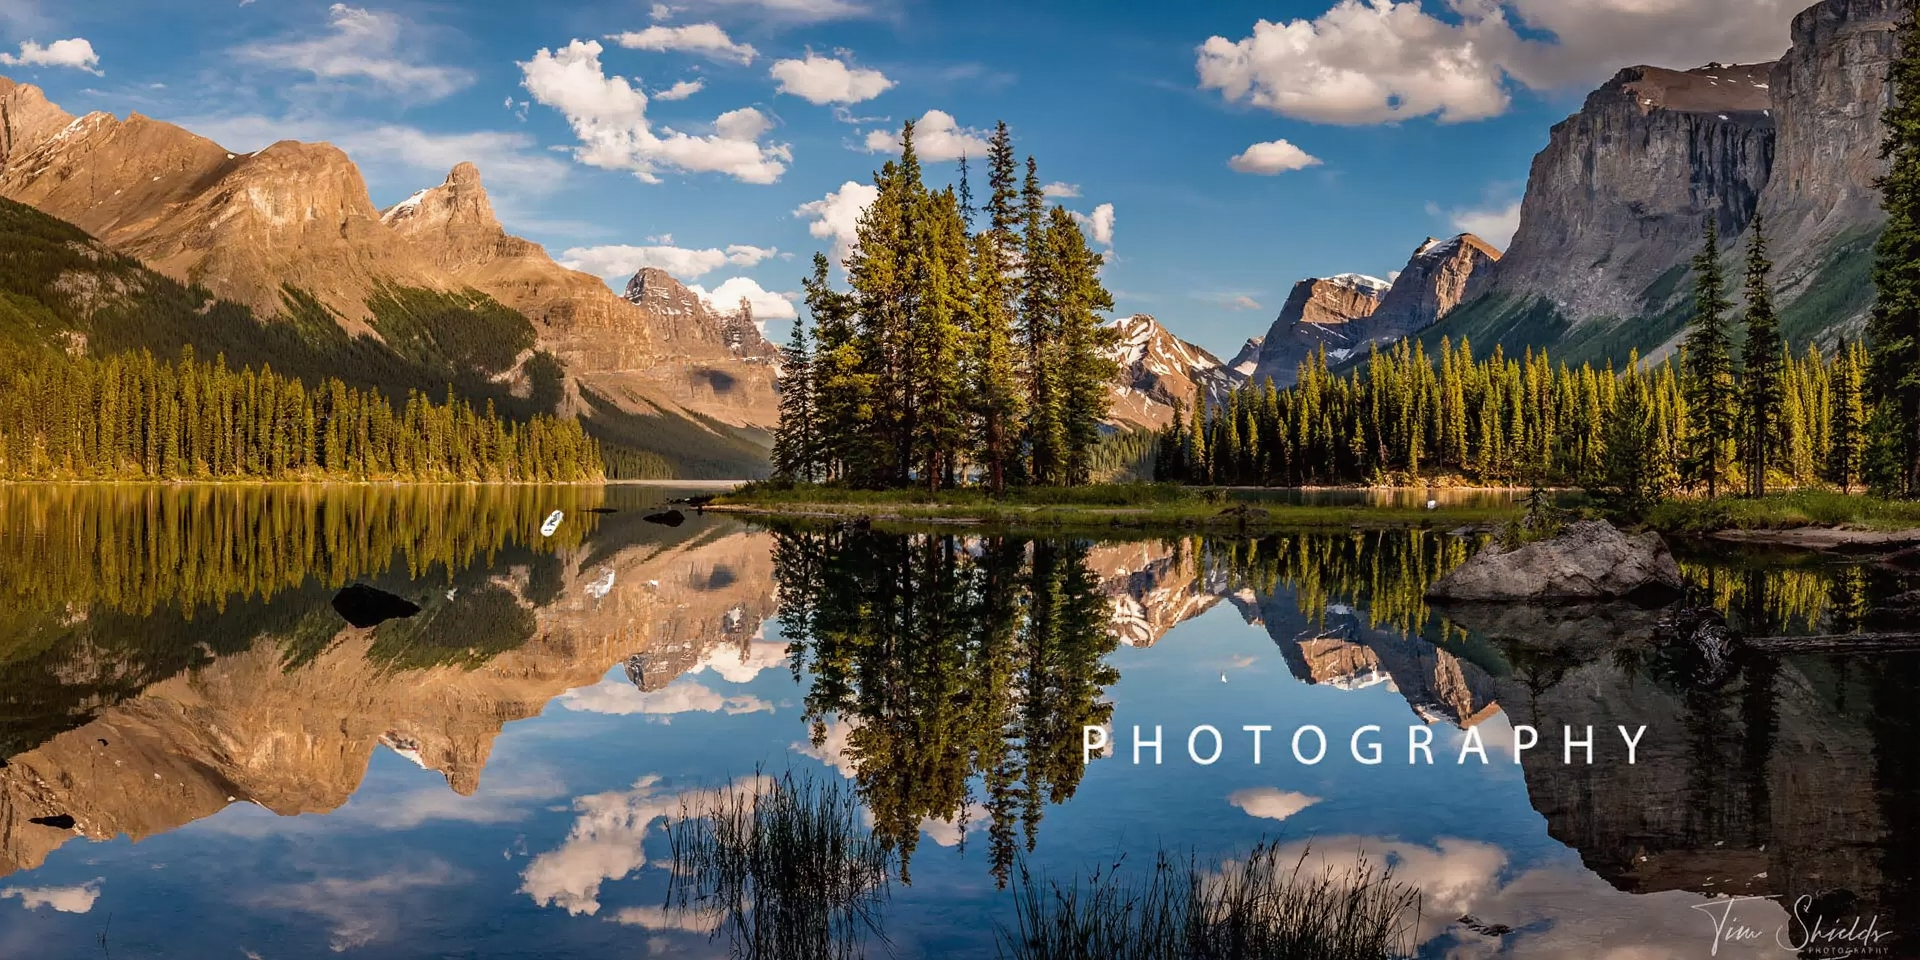
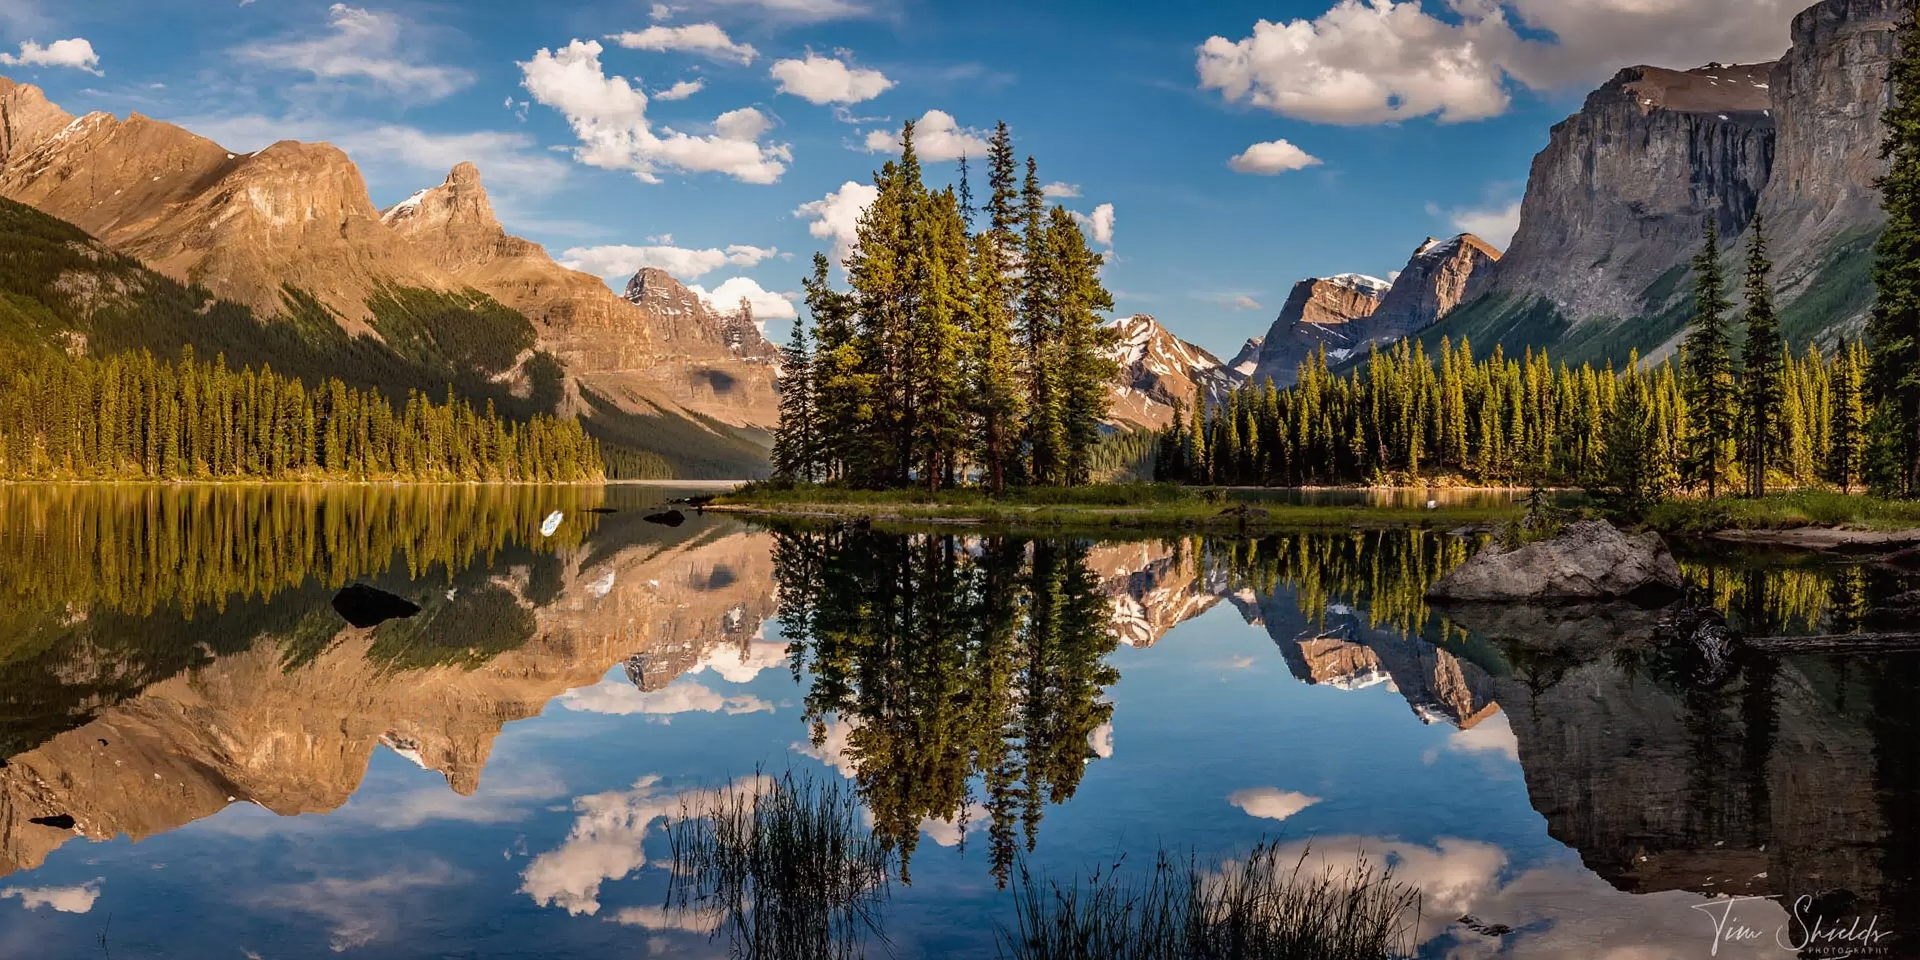
add combine mask function with margin parameter

Changed region(s): [[0.5625, 0.75, 0.875, 0.8125], [0.2812, 0.5312, 0.3125, 0.5625]]

diff --git a/segmentations/sematic_seg/common_tools.py b/segmentations/sematic_seg/common_tools.py
@@ -109,6 +109,108 @@ def get_mask_img(mask:np.ndarray):
     pil_mask = Image.fromarray(mask_rgb)
     return pil_mask
 
+def get_mask_img_margin(mask: np.ndarray, margin: int = 0):
+    """
+    Convert a binary mask ndarray to a PIL image with optional margin expansion.
+
+    Args:
+        mask (np.ndarray): Binary mask array (2D or 3D with last dim=1).
+        margin (int, optional): Expand mask edges by this many pixels. Defaults to 0.
+
+    Returns:
+        PIL.Image: Mask image with expanded edges (if applicable) and white background.
+    """
+
+    # Get height and width from the input mask shape
+    h, w = mask.shape[-2:]
+
+    # Ensure mask is binary (0s and 1s) and has only one channel
+    mask = (mask > 0).reshape(h, w)
+
+    # Apply margin expansion using morphological dilation
+    if margin > 0:
+        kernel = np.ones((margin*2+1, margin*2+1), np.uint8)
+        mask_with_margin = cv2.dilate(mask.astype(np.uint8), kernel)
+    else:
+        mask_with_margin = mask
+
+    # Set white background color
+    color = np.array([1, 1, 1])
+
+    # Expand mask image to hxwxc (c is 3 channels here)
+    mask_image = mask_with_margin.reshape(h, w, 1) * color.reshape(1, 1, 3)
+
+    # Convert to uint8 and scale values to [0, 255]
+    mask_image_uint8 = (mask_image * 255).astype(np.uint8)
+
+    # Convert BGR to RGB
+    mask_rgb = cv2.cvtColor(mask_image_uint8, cv2.COLOR_BGR2RGB)
+
+    # Convert cv2 image to PIL image
+    pil_mask = Image.fromarray(mask_rgb)
+
+    return pil_mask
+
+def get_combine_masks(masks: list[np.ndarray], margin: int = 0) -> Image:
+    """
+    Combine a list of binary ndarray masks into a single PIL mask image with optional margin expansion.
+
+    Args:
+        masks (list[np.ndarray]): List of binary mask arrays (2D or 3D with last dim=1) of the same size.
+        margin (int, optional): Expand combined mask edges by this many pixels. Defaults to 0.
+
+    Returns:
+        PIL.Image: Combined mask image with expanded edges (if applicable) and white background.
+    """
+
+    # Input validation
+    if not masks:
+        raise ValueError("Input list of masks is empty")
+    
+    # Get the shape of the first mask (assuming all masks have the same shape)
+    ref_shape = masks[0].shape
+    
+    # Validate that all masks have the same shape
+    for mask in masks:
+        if mask.shape != ref_shape:
+            raise ValueError("All masks must have the same shape")
+
+    # Initialize the combined mask with zeros
+    combined_mask = np.zeros(ref_shape, dtype=np.bool_)
+
+    # Iterate over each mask, performing a logical OR to combine them
+    for mask in masks:
+        # Ensure mask is binary (0s and 1s) and has only one channel
+        mask_binary = (mask > 0).reshape(ref_shape[:2])
+        combined_mask = np.logical_or(combined_mask, mask_binary)
+
+    # Apply margin expansion using morphological dilation (if margin > 0)
+    if margin > 0:
+        kernel = np.ones((margin*2+1, margin*2+1), np.uint8)
+        combined_mask_expanded = cv2.dilate(combined_mask.astype(np.uint8), kernel)
+    else:
+        combined_mask_expanded = combined_mask
+
+    # Set white background color
+    color = np.array([1, 1, 1])
+
+    # Expand combined mask image to hxwxc (c is 3 channels here)
+    combined_mask_image = combined_mask_expanded.reshape(*ref_shape[:2], 1) * color
+
+    # Convert to uint8 and scale values to [0, 255]
+    combined_mask_image_uint8 = (combined_mask_image * 255).astype(np.uint8)
+
+    # Convert BGR to RGB (if needed, for PIL compatibility)
+    if combined_mask_image_uint8.ndim == 3:  # Color image
+        combined_mask_rgb = cv2.cvtColor(combined_mask_image_uint8, cv2.COLOR_BGR2RGB)
+    else:  # Grayscale image (already compatible)
+        combined_mask_rgb = combined_mask_image_uint8
+
+    # Convert cv2 image to PIL image
+    pil_combined_mask = Image.fromarray(combined_mask_rgb)
+
+    return pil_combined_mask
+
 def show_points(coords, labels, ax, marker_size=375):
     pos_points = coords[labels==1]
     neg_points = coords[labels==0]

diff --git a/segmentations/sematic_seg/semantic_seg.py b/segmentations/sematic_seg/semantic_seg.py
@@ -21,6 +21,8 @@ from common_tools import (
     , get_xyxy_boxes
     , show_masks
     , get_mask_img
+    , get_mask_img_margin
+    , get_combine_masks
 )
 
 dino_device = "cuda:1"
@@ -34,8 +36,6 @@ model               = dino_load_model(
     , model_weight_path
     , device        = dino_device
 )
-BOX_TRESHOLD        = 0.4
-TEXT_TRESHOLD       = 0.4
 
 
 #%% start sam2 to get the mask
@@ -63,6 +63,8 @@ watermark, text
 """
 image_source, image = dino_load_image(IMAGE_PATH)
 
+BOX_TRESHOLD        = 0.35
+TEXT_TRESHOLD       = 0.1
 boxes, logits, phrases = dino_predict(
     model               = model
     , image             = image
@@ -84,7 +86,29 @@ show_cv2_img(annotated_frame)
 xyxy_boxes = get_xyxy_boxes(boxes, image_source)
 print(xyxy_boxes)
 
-#%% get mask using detected boxes
+#%% get combined mask
+image           = load_image(IMAGE_PATH)
+display(image)
+sam2_predictor.set_image(image)
+
+masks_list = []
+for i,box in enumerate(xyxy_boxes):
+    input_box = np.array(xyxy_boxes[i])
+    masks, scores, _ = sam2_predictor.predict(
+        point_coords    = None,
+        point_labels    = None,
+        box             = input_box[None, :],
+        multimask_output=False,
+    )
+    show_masks(image, masks, scores, box_coords=input_box)
+    masks_list.append(masks[0])
+
+combined_mask = get_combine_masks(masks_list, margin=0)
+mask_path = os.path.join(IMAGE_FOLDER,f"{IMAGE_NAME_wo_ext}_mask.png")
+combined_mask.save(mask_path)
+combined_mask
+
+#%% get one mask using detected boxes
 index = 0
 image           = load_image(IMAGE_PATH)
 display(image)
@@ -100,10 +124,13 @@ masks, scores, _ = sam2_predictor.predict(
 )
 show_masks(image, masks, scores, box_coords=input_box)
 
-pil_mask = get_mask_img(masks[index])
+# pil_mask = get_mask_img(masks[index])
+pil_mask = get_mask_img_margin(masks[index], margin=10)
 mask_path = os.path.join(IMAGE_FOLDER,f"{IMAGE_NAME_wo_ext}_mask.png")
 pil_mask.save(mask_path)
 pil_mask
+
+
 
 #%%
 # def get_mask_img_test(mask:np.ndarray):

diff --git a/diffusion_model/flux/run_flux_fill.py b/diffusion_model/flux/run_flux_fill.py
@@ -56,7 +56,7 @@ pipe.enable_model_cpu_offload()
 # """
 image_path  = '/home/andrewzhu/storage_1t_1/az_git_folder/az_samples/segmentations/sematic_seg/source_images/image_w_watermark2_s1.png'
 mask_path   = '/home/andrewzhu/storage_1t_1/az_git_folder/az_samples/segmentations/sematic_seg/source_images/image_w_watermark2_s1_mask.png'
-prompt      = "no text and watermark"
+prompt      = ""
 
 # Set image path , mask path and prompt
 # image_path  = 'https://huggingface.co/alimama-creative/FLUX.1-dev-Controlnet-Inpainting-Alpha/resolve/main/images/bucket.png'
